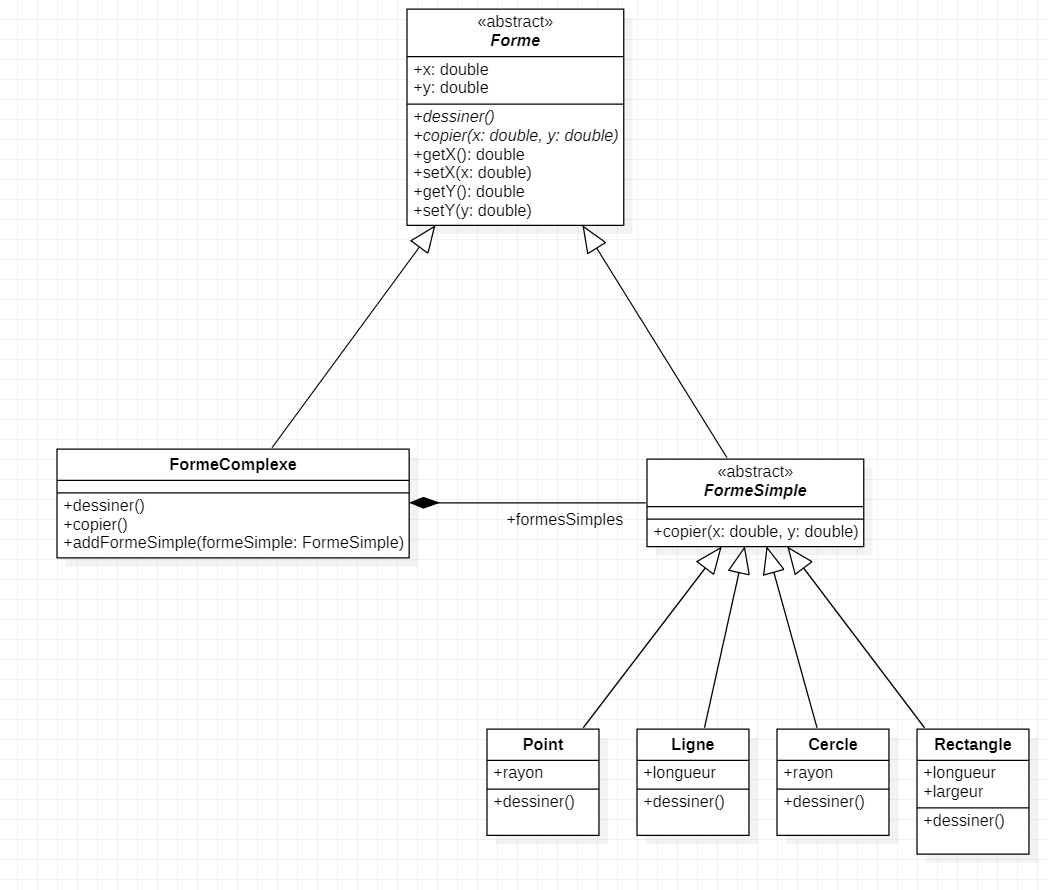
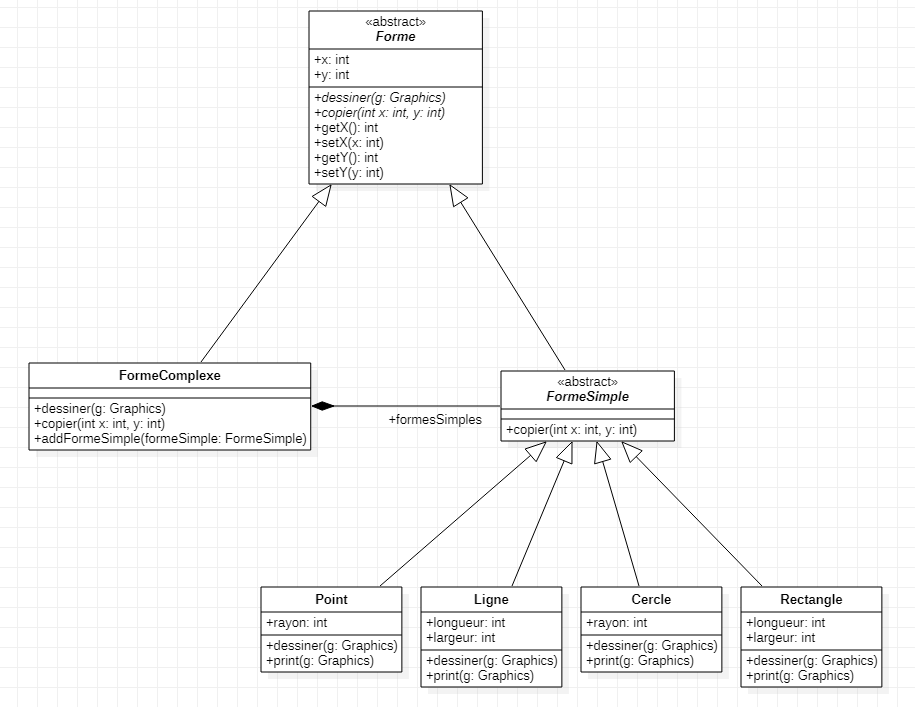
add graphic support

diff --git a/src/Tableau.java b/src/Tableau.java
@@ -1,0 +1,47 @@
+import java.awt.Component;
+import java.awt.Frame;
+import java.awt.Graphics;
+
+public class Tableau {
+
+    public static void main(String[] args) {
+
+        Frame frame = new Frame();
+        frame.add(new ShapesComponent());
+        int frameWidth = 1000;
+        int frameHeight = 600;
+        frame.setSize(frameWidth, frameHeight);
+        frame.setVisible(true);
+    }
+
+    static class ShapesComponent extends Component {
+
+        public void paint(Graphics g) {
+
+            Point point = new Point(100,100,10);
+            point.dessiner(g);
+            point.copier(200,100);
+            point.dessiner(g);
+
+            Cercle cercle = new Cercle(200,200,50);
+            cercle.dessiner(g);
+
+            Rectangle rectangle = new Rectangle(5,5,100,30);
+            rectangle.dessiner(g);
+            rectangle.copier(400,100);
+            rectangle.dessiner(g);
+
+            Ligne ligne = new Ligne(200,300,200,50);
+            ligne.dessiner(g);
+
+            FormeComplexe formesComplexe = new FormeComplexe(500,100);
+            formesComplexe.addFormSimple(new Point(500,100,50));
+            formesComplexe.addFormSimple(new Cercle(500,150,50));
+            formesComplexe.addFormSimple(new Rectangle(500,100,30,20));
+            formesComplexe.addFormSimple(new Ligne(500,100,150,150));
+            formesComplexe.dessiner(g);
+            formesComplexe.copier(500,300);
+            formesComplexe.dessiner(g);
+        }
+    }
+}

diff --git a/src/FormeComplexe.java b/src/FormeComplexe.java
@@ -1,9 +1,10 @@
+import java.awt.*;
 import java.util.ArrayList;
 
 public class FormeComplexe extends Forme{
     private final ArrayList<FormeSimple> formesSimples;
 
-    public FormeComplexe(double x, double y){
+    public FormeComplexe(int x, int y){
         super(x,y);
         this.formesSimples = new ArrayList<FormeSimple>();
     }
@@ -13,24 +14,21 @@ public class FormeComplexe extends Forme{
     }
 
     @Override
-    public void dessiner() {
-        System.out.println("FormeComplexe{");
+    public void dessiner(Graphics g) {
         for (FormeSimple formeSimple: formesSimples) {
-            System.out.print("\t");
-            formeSimple.dessiner();
+            formeSimple.dessiner(g);
         }
-        System.out.println("}");
     }
 
     @Override
-    public void copier(double x, double y) {
-        double diffX = x - this.getX();
-        double diffY = y - this.getY();
+    public void copier(int x, int y) {
+        int diffX = x - this.getxStart();
+        int diffY = y - this.getyStart();
         for (FormeSimple formeSimple: this.formesSimples) {
-            formeSimple.setX(formeSimple.getX() + diffX);
-            formeSimple.setY(formeSimple.getY() + diffY);
+            formeSimple.setxStart(formeSimple.getxStart() + diffX);
+            formeSimple.setyStart(formeSimple.getyStart() + diffY);
         }
-        this.setX(x);
-        this.setY(y);
+        this.setxStart(x);
+        this.setyStart(y);
     }
 }

diff --git a/src/Forme.java b/src/Forme.java
@@ -1,29 +1,31 @@
-public abstract class Forme{
-    private double x;
-    private double y;
+import java.awt.*;
 
-    public Forme(double x, double y) {
-        this.x=x;
-        this.y=y;
+public abstract class Forme extends Component {
+    private int xStart;
+    private int yStart;
+
+    public Forme(int x, int y) {
+        this.xStart =x;
+        this.yStart =y;
     }
 
-    public double getX() {
-        return x;
+    public int getxStart() {
+        return xStart;
     }
 
-    public void setX(double x) {
-        this.x = x;
+    public void setxStart(int xStart) {
+        this.xStart = xStart;
     }
 
-    public double getY() {
-        return y;
+    public int getyStart() {
+        return yStart;
     }
 
-    public void setY(double y) {
-        this.y = y;
+    public void setyStart(int yStart) {
+        this.yStart = yStart;
     }
 
-    public abstract void dessiner();
+    public abstract void dessiner(Graphics g);
 
-    public abstract void copier(double x, double y);
+    public abstract void copier(int x, int y);
 }

diff --git a/src/Rectangle.java b/src/Rectangle.java
@@ -1,15 +1,24 @@
-public class Rectangle extends FormeSimple{
-    private double longueur;
-    private double largeur;
+import java.awt.*;
 
-    public Rectangle(double x, double y,double longueur, double largeur){
+public class Rectangle extends FormeSimple{
+    private int longueur;
+    private int largeur;
+
+    public Rectangle(int x, int y,int longueur, int largeur){
         super(x,y);
         this.largeur = largeur;
         this.longueur = longueur;
     }
 
     @Override
-    public void dessiner() {
-        System.out.println("Rectangle{x:" + this.getX() + ", y:" + this.getY() + ", longueur:" + longueur + ",largeur:" + largeur + "}");
+    public void dessiner(Graphics g) {
+        this.print(g);
+//        System.out.println("Rectangle{x:" + this.getX() + ", y:" + this.getY() + ", longueur:" + longueur + ",largeur:" + largeur + "}");
+    }
+
+    @Override
+    public void print(Graphics g) {
+        super.print(g);
+        g.fillRect(this.getxStart(), this.getyStart(), largeur, longueur);
     }
 }

diff --git a/src/Ligne.java b/src/Ligne.java
@@ -1,13 +1,24 @@
-public class Ligne extends FormeSimple{
-    private double longueur;
+import java.awt.*;
 
-    public Ligne(double x, double y,double longueur){
+public class Ligne extends FormeSimple{
+    private int longueur;
+    private int largeur;
+
+    public Ligne(int x, int y,int longueur, int largeur){
         super(x,y);
         this.longueur=longueur;
+        this.largeur=largeur;
     }
 
     @Override
-    public void dessiner() {
-        System.out.println("Ligne{x:" + this.getX() + ", y:" + this.getY() + ", longueur:" + longueur + "}");
+    public void dessiner(Graphics g) {
+        this.print(g);
+//        System.out.println("Ligne{x:" + this.getX() + ", y:" + this.getY() + ", longueur:" + longueur + "}");
+    }
+
+    @Override
+    public void print(Graphics g) {
+        super.print(g);
+        g.drawLine(this.getxStart(), this.getyStart(), this.getxStart()+largeur, this.getyStart()+longueur);;
     }
 }

diff --git a/src/Cercle.java b/src/Cercle.java
@@ -1,13 +1,22 @@
-public class Cercle extends FormeSimple{
-    private double rayon;
+import java.awt.*;
 
-    public Cercle(double x, double y, double rayon){
+public class Cercle extends FormeSimple{
+    private int rayon;
+
+    public Cercle(int x, int y, int rayon){
         super(x,y);
         this.rayon=rayon;
     }
 
     @Override
-    public void dessiner() {
-        System.out.println("Cercle{x:" + this.getX() + ", y:" + this.getY() + ", rayon:" + rayon + "}");
+    public void dessiner(Graphics g) {
+        this.print(g);
+//        System.out.println("Cercle{x:" + this.getX() + ", y:" + this.getY() + ", rayon:" + rayon + "}");
+    }
+
+    @Override
+    public void print(Graphics g) {
+        super.print(g);
+        g.drawOval(this.getxStart(), this.getyStart(), this.rayon*2, this.rayon*2);
     }
 }

diff --git a/src/Point.java b/src/Point.java
@@ -1,13 +1,22 @@
-public class Point extends FormeSimple{
-    private double rayon;
+import java.awt.*;
 
-    public Point(double x,double y, double rayon){
+public class Point extends FormeSimple{
+    private int rayon;
+
+    public Point(int x,int y, int rayon){
         super(x,y);
         this.rayon=rayon;
     }
 
     @Override
-    public void dessiner() {
-        System.out.println("Point{x:" + this.getX() + ", y:" + this.getY() + ", rayon:" + rayon + "}");
+    public void dessiner(Graphics g) {
+        this.print(g);
+//        System.out.println("Point{x:" + this.getX() + ", y:" + this.getY() + ", rayon:" + rayon + "}");
+    }
+
+    @Override
+    public void print(Graphics g) {
+        super.print(g);
+        g.fillOval(this.getxStart(), this.getyStart(), this.rayon*2, this.rayon*2);
     }
 }

diff --git a/src/FormeSimple.java b/src/FormeSimple.java
@@ -1,12 +1,12 @@
 public abstract class FormeSimple extends Forme{
 
-    public FormeSimple(double x, double y) {
+    public FormeSimple(int x, int y) {
         super(x, y);
     }
 
     @Override
-    public void copier(double x, double y) {
-        this.setX(x);
-        this.setY(y);
+    public void copier(int x, int y) {
+        this.setxStart(x);
+        this.setyStart(y);
     }
 }
